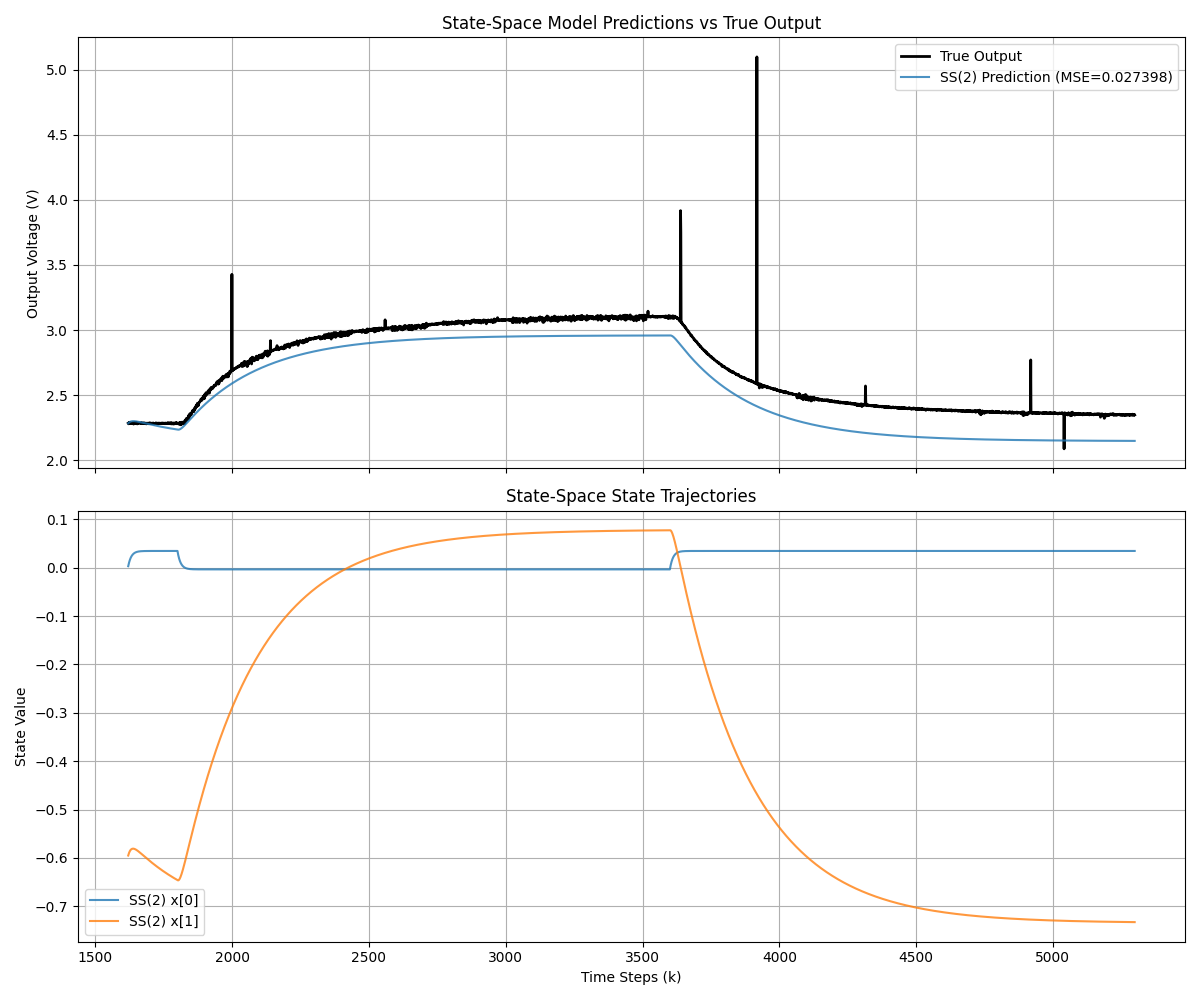
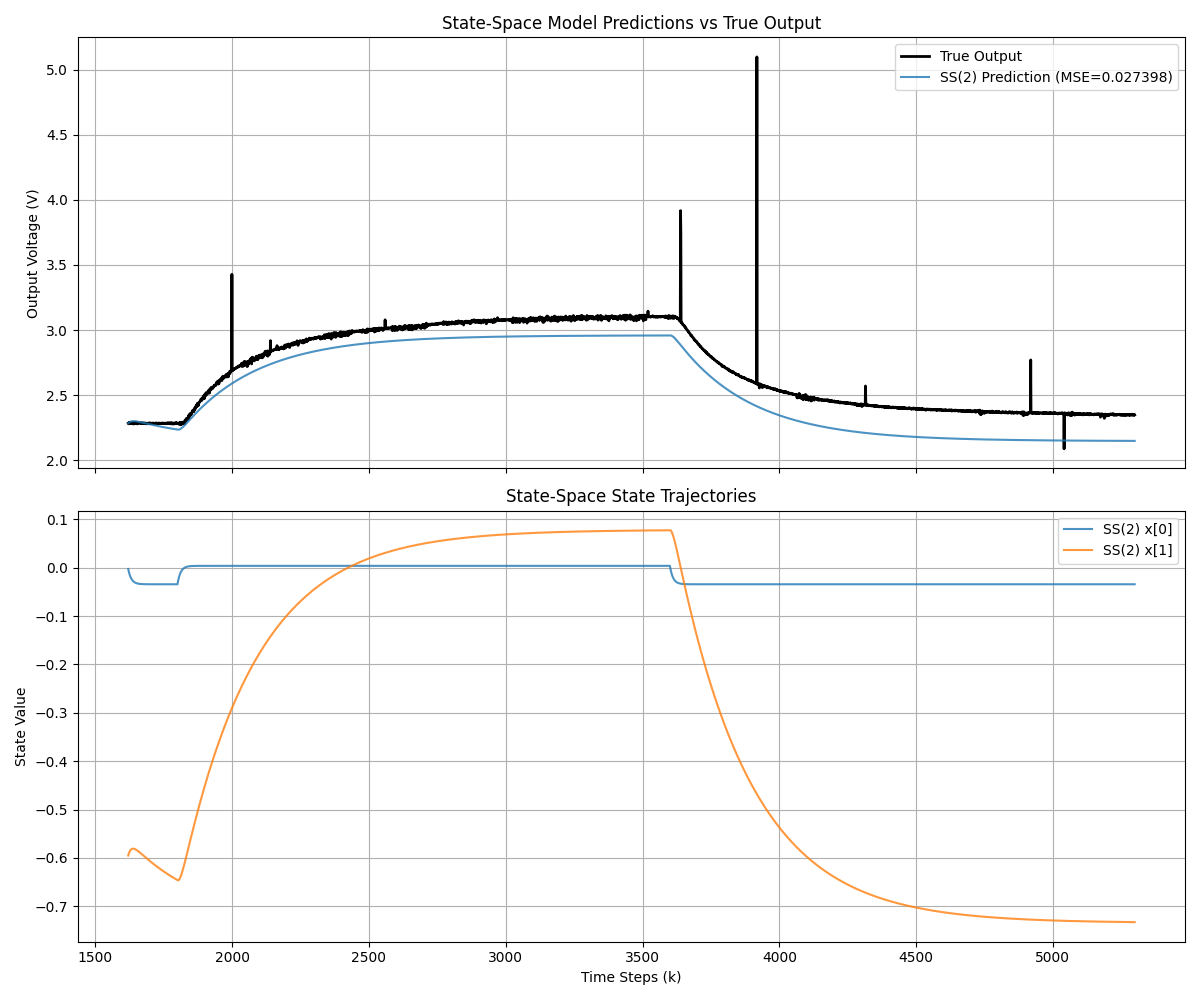
Refactor fit_ss_graybox function to enforce negative response from heat to input voltage and update return values to corrected physical cascade canonical form

Changed region(s): [[0.1233, 0.558, 0.5858, 0.589], [0.8633, 0.496, 0.9867, 0.589], [0.0617, 0.899, 0.185, 0.93]]

diff --git a/torneira/identificacao/greybox_fit.py b/torneira/identificacao/greybox_fit.py
@@ -98,11 +98,11 @@ def fit_ss_graybox(
     u_train: np.ndarray, y_train: np.ndarray
 ) -> tuple[tuple[np.ndarray, np.ndarray, np.ndarray, np.ndarray], int, int]:
     """
-    Identifies a strictly 2nd-order state-space model and applies a similarity
-    transformation to decouple the fast (water) and slow (sensor) dynamics.
+    Identifies a strictly 2nd-order state-space model, decouples the fast and slow
+    dynamics, and enforces a positive internal heat transfer sign convention.
 
     Returns:
-        A_cas, B_cas, C_cas, D_cas: Matrices in the physical cascade canonical form.
+        A_phys, B_phys, C_phys, K: Matrices in the corrected physical cascade canonical form.
         nx: The hardcoded state dimension (2).
         NK: The hardcoded transport delay (1).
     """
@@ -136,26 +136,26 @@ def fit_ss_graybox(
 
     # Map to modal output matrix
     C_diag = C_id @ V_sorted
-
-    if C_diag.shape[1] < 2:
-        raise ValueError(
-            "fit_ss_graybox requires a 2nd-order system with two modal contributions "
-            f"(C_diag shape={C_diag.shape}); check training data or model order."
-        )
-
     c_f = C_diag[0, 0]
     c_s = C_diag[0, 1]
 
-    # Construct the physical mapping matrix M
+    # Construct the abstract mapping matrix M
     M = np.array([[c_f, 0], [c_f, c_s]])
 
     # Compute the global similarity transformation T = V * M^-1
     T = V_sorted @ np.linalg.inv(M)
     T_inv = np.linalg.inv(T)
 
-    # Apply similarity transformation to yield the cascade canonical form
+    # Apply similarity transformation to yield the abstract cascade canonical form
     A_cas = np.real(T_inv @ A_id @ T)
     B_cas = np.real(T_inv @ B_id)
     C_cas = np.real(C_id @ T)
 
-    return (A_cas, B_cas, C_cas, np.zeros((nx, nx))), nx, NK
+    # Apply reflection to correct the physical sign convention
+    T_ref = np.array([[-1.0, 0.0], [0.0, 1.0]])
+
+    A_phys = T_ref @ A_cas @ T_ref
+    B_phys = T_ref @ B_cas
+    C_phys = C_cas @ T_ref
+
+    return (A_phys, B_phys, C_phys, np.zeros((nx, nx))), nx, NK
